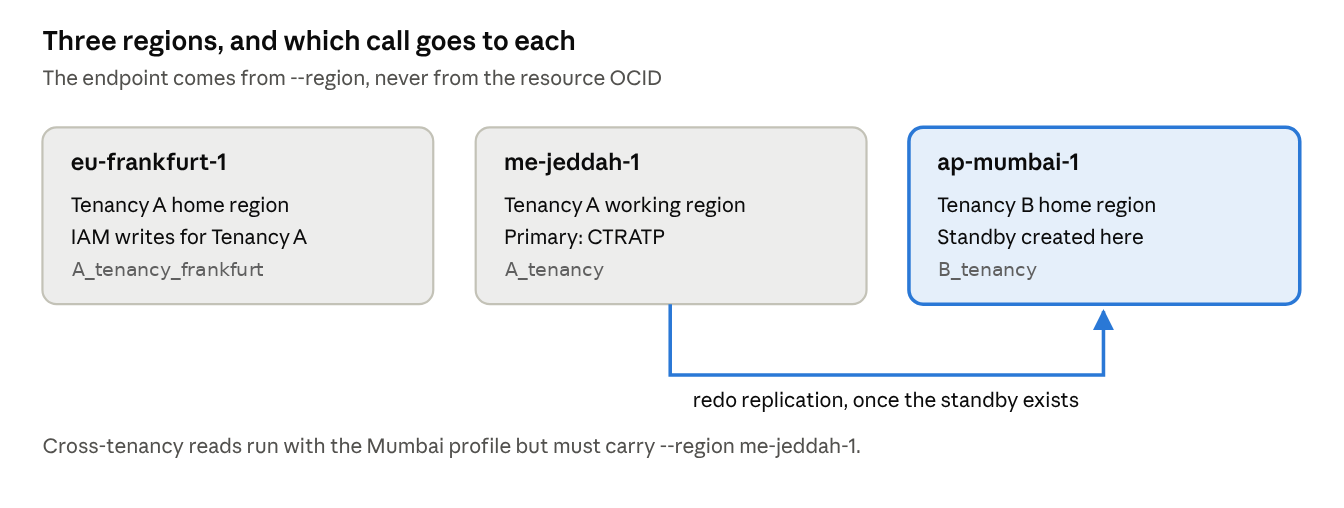
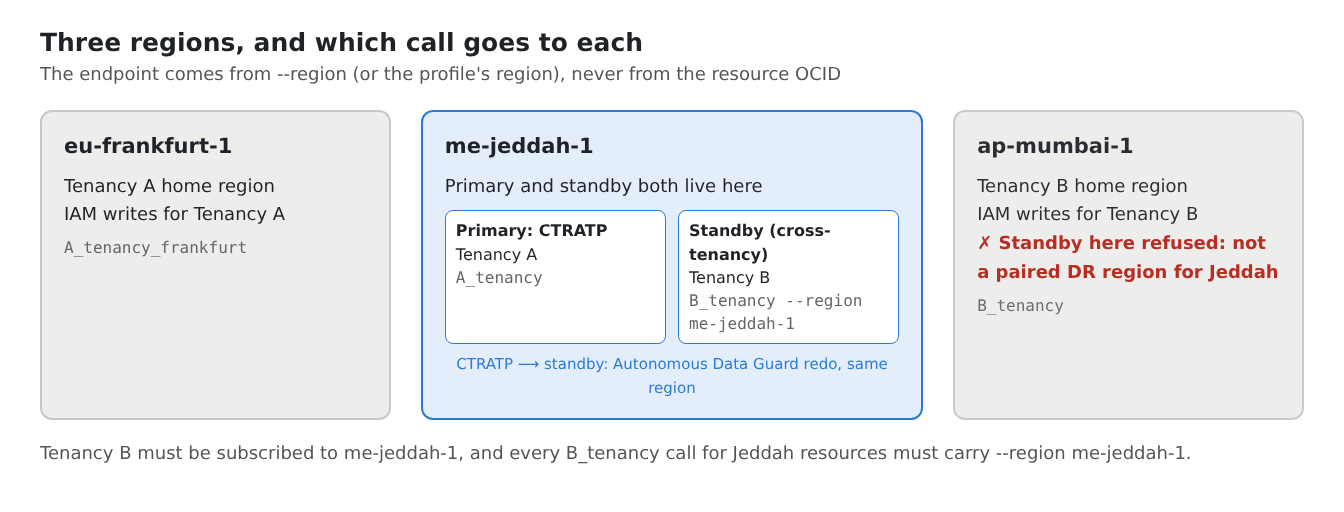
Cross-tenancy ADG post: redraw region diagram with the standby in Jeddah
Claude-Session: https://claude.ai/code/session_01JdoSS714XP5Fx39bmThw8Z

diff --git a/cross-tenancy-adb-data-guard-jeddah-to-jeddah/cross-tenancy-adb-data-guard-jeddah-to-jeddah.html b/cross-tenancy-adb-data-guard-jeddah-to-jeddah/cross-tenancy-adb-data-guard-jeddah-to-jeddah.html
@@ -74,8 +74,8 @@
 <div class="tw"><table><thead><tr><th></th><th>A_tenancy — primary</th><th>B_tenancy — standby</th></tr></thead><tbody><tr><td>CLI profile</td><td><code>A_tenancy</code> (+ <code>A_tenancy_frankfurt</code> for IAM writes)</td><td><code>B_tenancy</code></td></tr><tr><td>Home region (IAM writes)</td><td>eu-frankfurt-1</td><td>ap-mumbai-1</td></tr><tr><td>Working region</td><td>me-jeddah-1</td><td>ap-mumbai-1, then me-jeddah-1</td></tr><tr><td>Database</td><td>CTRATP (2 ECPU, 20 GB)</td><td>standby, created by this build</td></tr><tr><td>Compartment</td><td>nslabs (nested)</td><td>Operations (top level)</td></tr></tbody></table></div>
 <p>Both profiles here use the same API key, uploaded to the user in each tenancy. That works, but remember it when rotating the key: replace it in both tenancies, or one profile silently stops authenticating.</p>
 <h2>Three Regions, and Which Call Goes to Each</h2>
-<div class="shots one"><figure><a href="images/image1.png" target="_blank" rel="noopener"><img src="images/image1.png" alt="Diagram: eu-frankfurt-1 is A_tenancy home region for IAM writes (A_tenancy_frankfurt); me-jeddah-1 is A_tenancy working region with primary CTRATP (A_tenancy); ap-mumbai-1 is B_tenancy home region (B_tenancy)" loading="lazy"></a></figure></div>
-<p>Two tenancies, three regions — the root of most of the confusion. A_tenancy is homed in Frankfurt but keeps its database in Jeddah, so policy writes and database calls go to different endpoints. <strong>The CLI endpoint comes from the profile's <code>region=</code> or from <code>--region</code>, never from the region inside a resource OCID.</strong></p>
+<div class="shots one"><figure><a href="images/image1.png" target="_blank" rel="noopener"><img src="images/image1.png" alt="Diagram: eu-frankfurt-1 is Tenancy A home region for IAM writes (A_tenancy_frankfurt); me-jeddah-1 holds both the primary CTRATP (A_tenancy) and the cross-tenancy standby (B_tenancy --region me-jeddah-1) with Data Guard redo between them; ap-mumbai-1 is Tenancy B home region where the standby was refused as not a paired DR region" loading="lazy"></a></figure></div>
+<p>Two tenancies, three regions — the root of most of the confusion. The final layout has <strong>both databases in Jeddah</strong>: the primary in A_tenancy and the standby in B_tenancy. Frankfurt is only where A_tenancy's IAM writes go, and Mumbai is B_tenancy's home region, where the standby was first attempted and refused because it isn't a paired DR region for Jeddah. B_tenancy therefore has to be subscribed to Jeddah, and its commands for Jeddah resources must carry <code>--region me-jeddah-1</code>. <strong>The CLI endpoint comes from the profile's <code>region=</code> or from <code>--region</code>, never from the region inside a resource OCID.</strong></p>
 <h2><span class="num">1</span>CLI Profiles and Identifiers</h2>
 <p><code>C:\Users\&lt;user&gt;\.oci\config</code>, one profile per tenancy (plus the Frankfurt one, see issue 4):</p>
 <div class="code"><span class="lbl">OCI CONFIG</span><pre><code>[A_tenancy]
